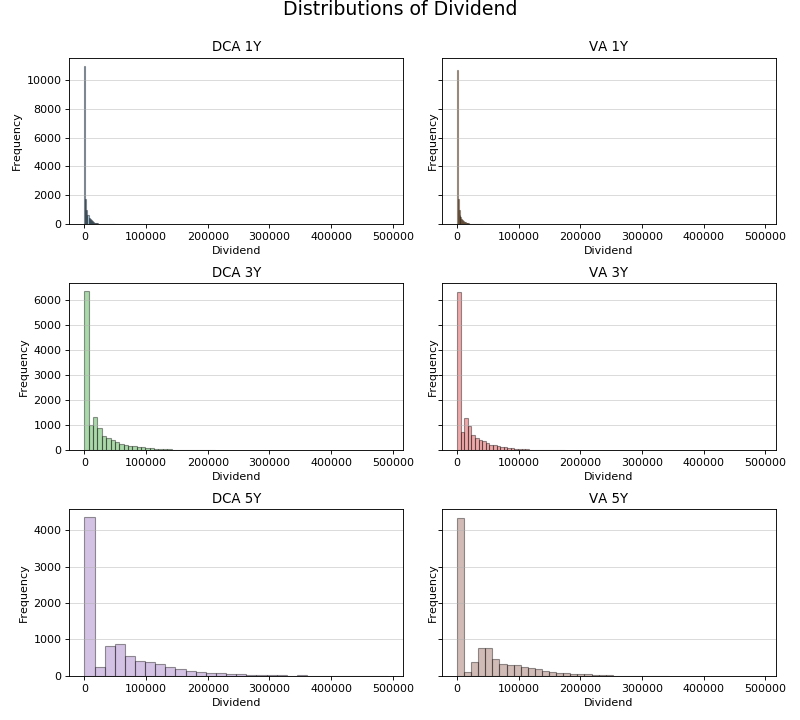
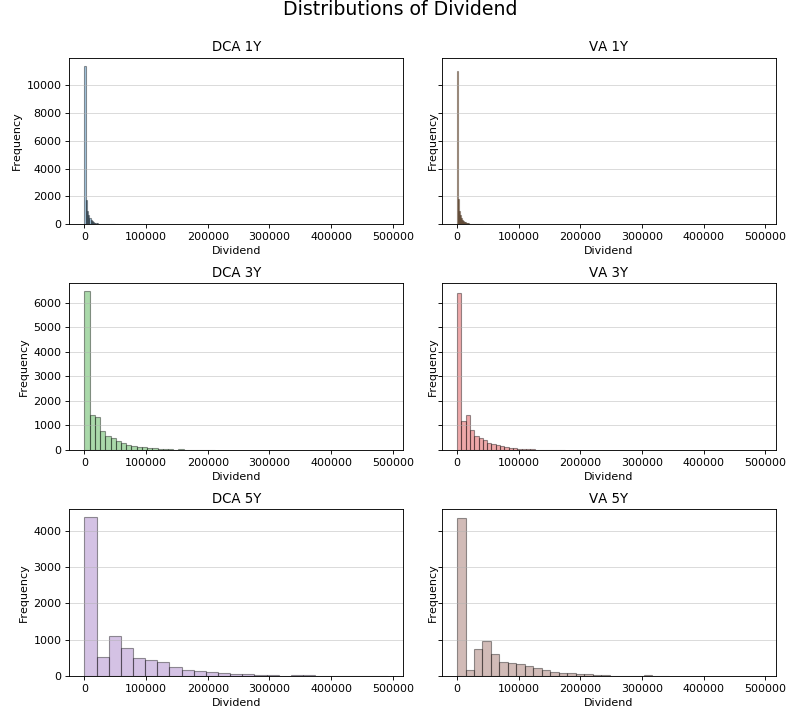
PC

diff --git a/Graph.py b/Graph.py
@@ -15,24 +15,24 @@ indicator_list = ['Avg. Cost', 'Mean', 'Std', 'SR', 'IRR', 'Dividend', 'Wealth P
 
 if __name__ == '__main__':
     # Excel to Pickle #
-    df_1Y = pd.read_excel('data/#Summary_1Y.xlsx', sheet_name='Result', header=[0, 1], index_col=[0])
-    df_1Y_Ind = {}
-    for ind in indicator_list:
-        df_1Y_Ind[ind] = df_1Y[ind].melt(var_name='Algorithm', value_vars=df_1Y[ind].columns, value_name=ind)
-    df_1Y = pd.concat([df_1Y_Ind[ind] for ind in indicator_list], axis=1).T.drop_duplicates().T
-    df_1Y.to_pickle('data/Summary_1Y.pkl')
-    df_3Y = pd.read_excel('data/#Summary_3Y.xlsx', sheet_name='Result', header=[0, 1], index_col=[0])
-    df_3Y_Ind = {}
-    for ind in indicator_list:
-        df_3Y_Ind[ind] = df_3Y[ind].melt(var_name='Algorithm', value_vars=df_3Y[ind].columns, value_name=ind)
-    df_3Y = pd.concat([df_3Y_Ind[ind] for ind in indicator_list], axis=1).T.drop_duplicates().T
-    df_3Y.to_pickle('data/Summary_3Y.pkl')
-    df_5Y = pd.read_excel('data/#Summary_5Y.xlsx', sheet_name='Result', header=[0, 1], index_col=[0])
-    df_5Y_Ind = {}
-    for ind in indicator_list:
-        df_5Y_Ind[ind] = df_5Y[ind].melt(var_name='Algorithm', value_vars=df_5Y[ind].columns, value_name=ind)
-    df_5Y = pd.concat([df_5Y_Ind[ind] for ind in indicator_list], axis=1).T.drop_duplicates().T
-    df_5Y.to_pickle('data/Summary_5Y.pkl')
+    # df_1Y = pd.read_excel('data/#Summary_1Y.xlsx', sheet_name='Result', header=[0, 1], index_col=[0])
+    # df_1Y_Ind = {}
+    # for ind in indicator_list:
+    #     df_1Y_Ind[ind] = df_1Y[ind].melt(var_name='Algorithm', value_vars=df_1Y[ind].columns, value_name=ind)
+    # df_1Y = pd.concat([df_1Y_Ind[ind] for ind in indicator_list], axis=1).T.drop_duplicates().T
+    # df_1Y.to_pickle('data/Summary_1Y.pkl')
+    # df_3Y = pd.read_excel('data/#Summary_3Y.xlsx', sheet_name='Result', header=[0, 1], index_col=[0])
+    # df_3Y_Ind = {}
+    # for ind in indicator_list:
+    #     df_3Y_Ind[ind] = df_3Y[ind].melt(var_name='Algorithm', value_vars=df_3Y[ind].columns, value_name=ind)
+    # df_3Y = pd.concat([df_3Y_Ind[ind] for ind in indicator_list], axis=1).T.drop_duplicates().T
+    # df_3Y.to_pickle('data/Summary_3Y.pkl')
+    # df_5Y = pd.read_excel('data/#Summary_5Y.xlsx', sheet_name='Result', header=[0, 1], index_col=[0])
+    # df_5Y_Ind = {}
+    # for ind in indicator_list:
+    #     df_5Y_Ind[ind] = df_5Y[ind].melt(var_name='Algorithm', value_vars=df_5Y[ind].columns, value_name=ind)
+    # df_5Y = pd.concat([df_5Y_Ind[ind] for ind in indicator_list], axis=1).T.drop_duplicates().T
+    # df_5Y.to_pickle('data/Summary_5Y.pkl')
 
     # Import Pickle #
     df = {}
@@ -41,13 +41,23 @@ if __name__ == '__main__':
     df['5Y'] = pd.read_pickle('data/Summary_5Y.pkl')
 
     for graph in indicator_list:
+        print(graph)
         fig, ax = plt.subplots(nrows=3, ncols=2, sharex=True, sharey='row', figsize=(10, 9), dpi=80)
         fig2, ax2 = plt.subplots(nrows=3, ncols=1, sharex=True, sharey='row', figsize=(10, 6), dpi=80)
         palette = plt.get_cmap('tab10')
         p_index = 0
+        # bins = np.histogram(np.hstack((
+        #     df['1Y'].loc[df['1Y']['Algorithm'] == 'DCA'][graph],
+        #     df['3Y'].loc[df['3Y']['Algorithm'] == 'DCA'][graph],
+        #     df['5Y'].loc[df['5Y']['Algorithm'] == 'DCA'][graph],
+        #     df['1Y'].loc[df['1Y']['Algorithm'] == 'VA'][graph],
+        #     df['3Y'].loc[df['3Y']['Algorithm'] == 'VA'][graph],
+        #     df['5Y'].loc[df['5Y']['Algorithm'] == 'VA'][graph],
+        # )), bins=30)[1]
+        bins = 25
         for row, year in enumerate(['1Y', '3Y', '5Y']):
             for col, algorithm in enumerate(['DCA', 'VA']):
-                sns.distplot(df[year].loc[df[year]['Algorithm'] == algorithm][graph], bins=30, kde=False, label='{} {}'.format(algorithm, year), color=palette(p_index), hist_kws=dict(edgecolor='k', linewidth=1), ax=ax[row, col])
+                sns.distplot(df[year].loc[df[year]['Algorithm'] == algorithm][graph], bins=bins, kde=False, label='{} {}'.format(algorithm, year), color=palette(p_index), hist_kws=dict(edgecolor='k', linewidth=1), ax=ax[row, col])
                 sns.kdeplot(df[year].loc[df[year]['Algorithm'] == algorithm][graph], label='{} {}'.format(algorithm, year), linestyle='--', ax=ax2[row])
                 p_index = p_index + 1
                 ax[row, col].set_title('{} {}'.format(algorithm, year))
